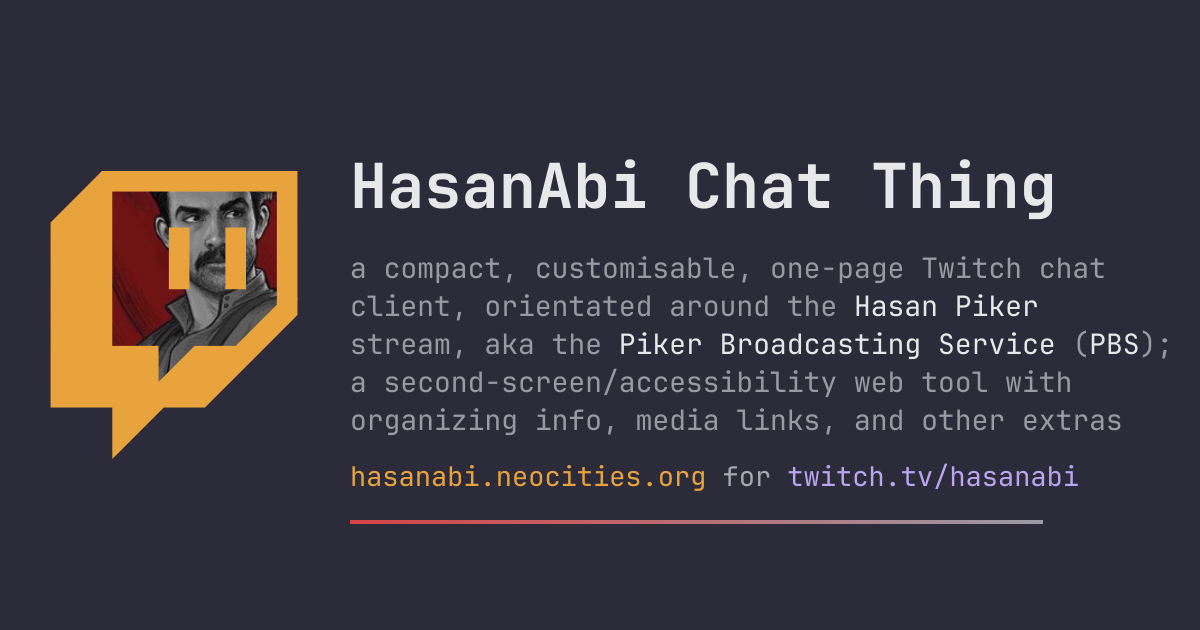
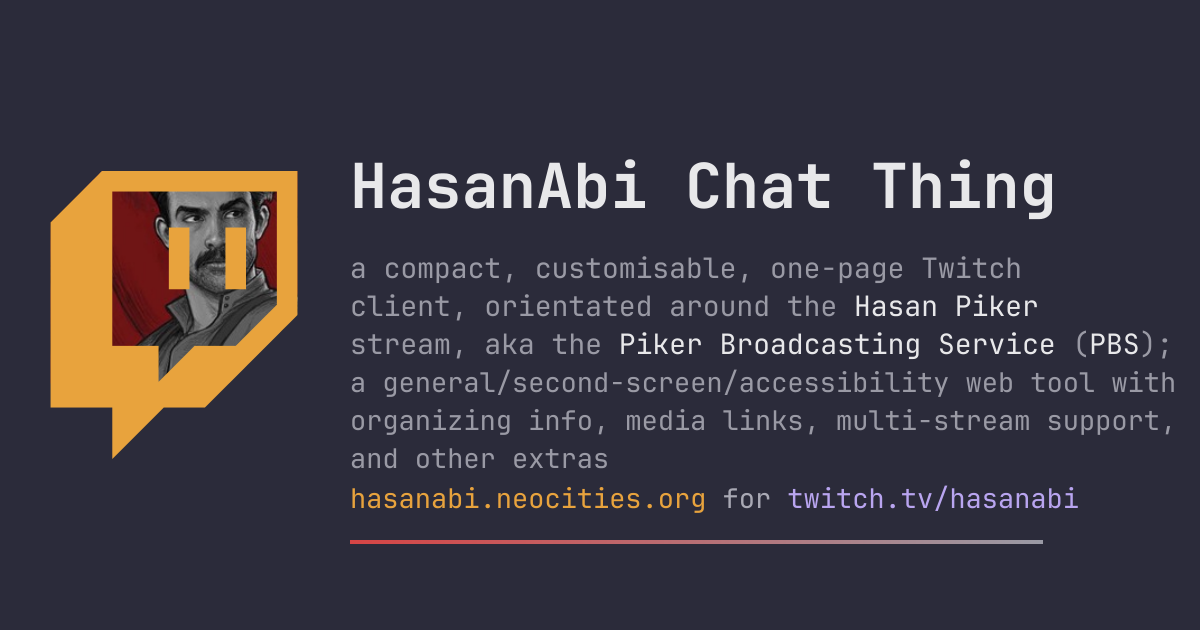
about: broaden project description

Changed region(s): [[0.2775, 0.573, 0.9867, 0.8746], [0.8633, 0.3921, 0.925, 0.4524]]

diff --git a/about/index.html b/about/index.html
@@ -4,9 +4,9 @@
 <meta charset="utf-8">
 <meta name="viewport" content="width=device-width, initial-scale=1">
 <title>HasanAbi Chat Thing - about</title>
-<meta name="description" content="a compact, customisable, one-page Twitch chat client, orientated around the Hasan Piker stream, aka the Piker Broadcasting Service (PBS); a second-screen/accessibility web tool with organizing info, media links, and other extras">
+<meta name="description" content="a compact, customisable, one-page Twitch client, orientated around the Hasan Piker stream, aka the Piker Broadcasting Service (PBS); a general/second-screen/accessibility web tool with organizing info, media links, multi-stream support, and other extras">
 <meta property="og:title" content="HasanAbi Chat Thing">
-<meta property="og:description" content="a compact, customisable, one-page Twitch chat client, orientated around the Hasan Piker stream, aka the Piker Broadcasting Service (PBS); a second-screen/accessibility web tool with organizing info, media links, and other extras">
+<meta property="og:description" content="a compact, customisable, one-page Twitch client, orientated around the Hasan Piker stream, aka the Piker Broadcasting Service (PBS); a general/second-screen/accessibility web tool with organizing info, media links, multi-stream support, and other extras">
 <meta property="og:image" content="https://hasanabi.neocities.org/og.png">
 <link rel="icon" href="../favicon.ico">
 <style>
@@ -127,7 +127,7 @@
 </head>
 <body>
 <main>
-  <div class="card"><img src="../og.png" alt="HasanAbi Chat Thing - a compact, customisable, one-page Twitch chat client, orientated around the Hasan Piker stream, aka the Piker Broadcasting Service (PBS); a second-screen/accessibility web tool with organizing info, media links, and other extras"></div>
+  <div class="card"><img src="../og.png" alt="HasanAbi Chat Thing - a compact, customisable, one-page Twitch client, orientated around the Hasan Piker stream, aka the Piker Broadcasting Service (PBS); a general/second-screen/accessibility web tool with organizing info, media links, multi-stream support, and other extras"></div>
 
   <p>liberate the
   <a href="https://www.twitch.tv/hasanabi">HasanAbi</a> Twitch chat with a web tool

diff --git a/CHANGELOG.md b/CHANGELOG.md
@@ -60,6 +60,8 @@ not versions - the page ships continuously to Neocities.
   re-pick - a saved zebra level keeps its pick
 
 ### About page
+- the about and social-card copy broadens the description to the
+  general and multi-stream tool
 - the theme cards now lead with nightshade as the default, rename
   the former default to old-default, and add ft and ftdark shots
 - the banner card wears a gold-to-purple gradient border over a
